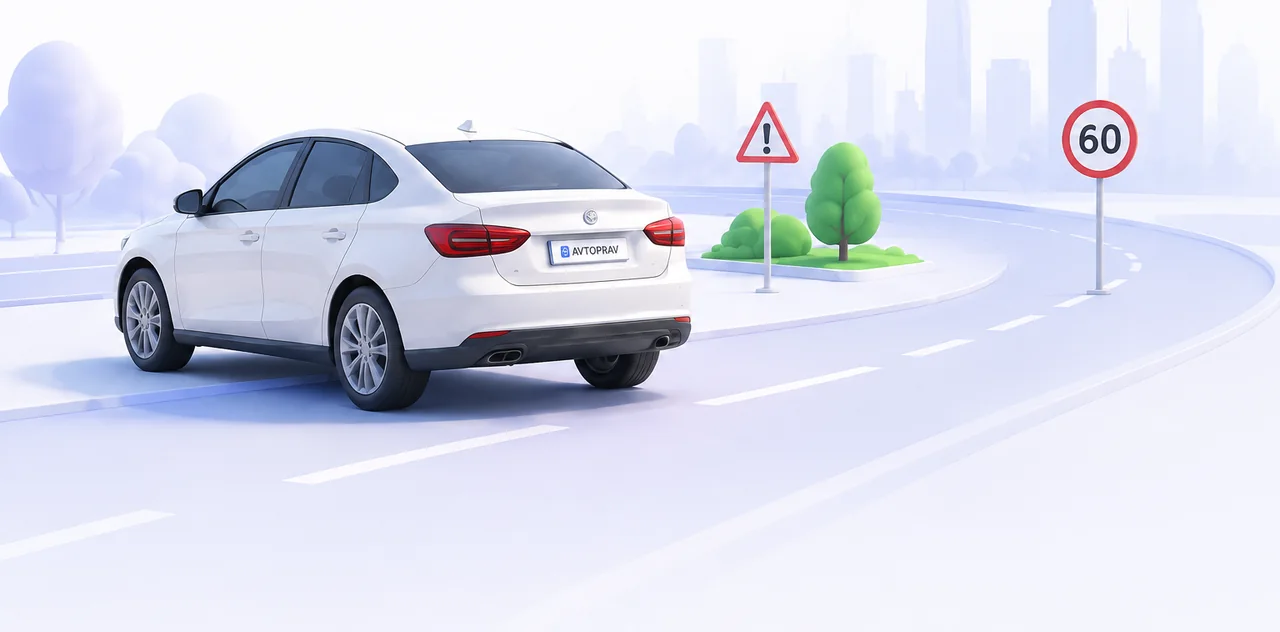
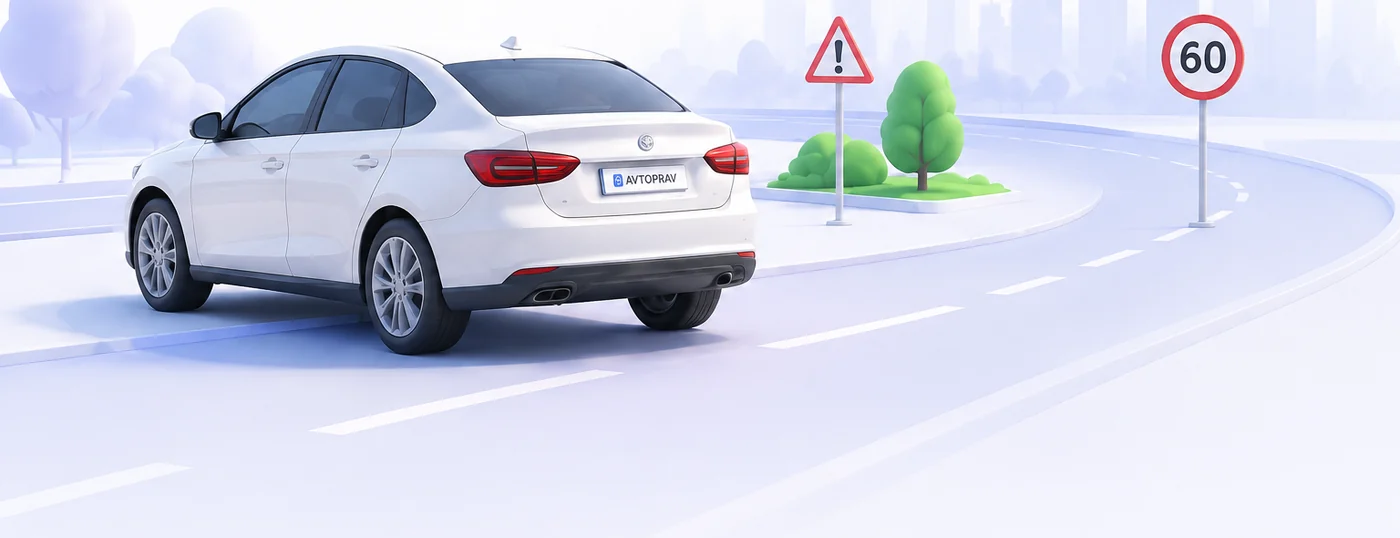
fix(auth): mashina kesilib qolgani + ikki ustun orasidagi chok
MASHINA KESILGAN edi. Sabab: rasm ustun kengligida tabiiy nisbatda 426px
balandlik olardi, CSS esa uni 244px ga qisib `object-position: center bottom`
bilan YUQORIDAN qirqardi — mashinaning ustki yarmi kesilib, faqat shinalar
qolardi.

Yechim ikki qadamda:
  1) Rasm manbadan qayta kesildi. Mashinaning aniq o'rni o'lchandi (piksel
     tahlili: to'q oyna/shina piksellari y 388..764, ya'ni 38–75%), shunga
     ko'ra y 370..960 olindi. Natijada nisbat 2.60 — 863px ustunda tabiiy
     balandligi 332px, ya'ni odatdagi ekranda UMUMAN qirqilmaydi.
  2) `object-position` `center bottom` → `center top`. Past ekranda qirqish
     kerak bo'lsa endi PASTDAGI bo'sh asfalt kesiladi, mashina emas.
`width`/`height` atributlari yangi o'lchamga moslandi (1400x538) — CLS uchun.

CHOK. Chap panel o'z gradientini, o'ng panel `--canvas` ni olardi; ikki rang
tutashgan joyda tik chiziq ko'rinib, sahifa ikkiga bo'lingandek tuyulardi
(qorong'i rejimda ayniqsa keskin). Endi gradient SAHIFA ILDIZIDA
(`.auth-page`) va ikki ustunga bir butun bo'lib yotadi, ustunlarning o'z
foni yo'q — chok tuzilish jihatidan mumkin emas.

Qorong'ida rasm shaffofligi 0.55 → 0.4: rasm yorug' rejim uchun chizilgan,
to'q fonda kamroq ko'zga tashlanishi kerak.

Tekshirildi (production build): yorug' va qorong'i — rasm qirqilmaydi,
ikkala ustun ham shaffof, vertikal scroll yo'q.

diff --git a/app/components/AuthShowcase.vue b/app/components/AuthShowcase.vue
@@ -9,9 +9,11 @@
  * mumkin.
  *
  * Illyustratsiya (public/auth-road.webp) — yuqori qirrasi CSS mask bilan
- * shaffofga o'tadi: rasmning fon rangi (#d8dbea atrofida) panel foniga aynan
- * teng emas, shuning uchun qattiq chok ko'rinib qolardi. Mask bilan qanday
- * fon bo'lsa ham chok bo'lmaydi.
+ * shaffofga o'tadi: rasm foni sahifa fonidan bir oz to'qroq, mask bo'lmasa
+ * gorizontal chok ko'rinib qolardi.
+ *
+ * FON bu komponentda EMAS — u sahifa ildizida (.auth-page) va ikki ustunga
+ * bir butun bo'lib yotadi, aks holda ustunlar orasida tik chok chiqadi.
  */
 const i18n = useI18n()
 
@@ -122,15 +124,17 @@ const features = computed(() => [
     <!-- Yo'l illyustratsiyasi: ustunning butun kengligiga (chetdan chetga)
          cho'ziladi va pastiga tegib turadi. `mt-auto` — matn bilan orasidagi
          bo'shliqni ekran balandligi o'zi taqsimlaydi. -->
-    <img src="/auth-road.webp" alt="" aria-hidden="true" width="1280" height="632"
+    <img src="/auth-road.webp" alt="" aria-hidden="true" width="1400" height="538"
          class="road relative z-0 mt-auto w-full select-none pointer-events-none" />
   </aside>
 </template>
 
 <style scoped>
+/* FON YO'Q — u sahifa ildizida (`.auth-page`) va ikki ustunga BIR BUTUN
+   bo'lib yotadi. Ilgari chap panel o'z gradientini, o'ng panel `--canvas` ni
+   olardi: ikki rang tutashgan joyda tik CHOK ko'rinib, sahifa ikkiga
+   bo'lingandek tuyulardi (qorong'i rejimda ayniqsa keskin). */
 .showcase {
-  /* Maketdagi juda och ko'k-oq fon */
-  background: linear-gradient(168deg, #fbfcff 0%, #f2f5fd 46%, #e9eefb 100%);
   /* Gorizontal padding YO'Q — u `.showcase-pad` da. Rasm chetdan chetga
      cho'zilishi uchun shunday. */
   padding: 32px 0 0;
@@ -141,9 +145,6 @@ const features = computed(() => [
 .showcase-pad { padding: 0 24px; }
 @media (min-width: 1024px) { .showcase-pad { padding: 0 40px; } }
 @media (min-width: 1280px) { .showcase-pad { padding: 0 64px; } }
-.dark .showcase {
-  background: linear-gradient(168deg, var(--surface-soft) 0%, var(--canvas) 100%);
-}
 
 .wordmark {
   font-size: 23px;
@@ -179,31 +180,33 @@ const features = computed(() => [
 @media (min-width: 1024px) { .showcase-title { font-size: 37px; } }
 @media (min-width: 1280px) { .showcase-title { font-size: 43px; } }
 
-/* Rasmning yuqori qirrasi panel foniga silliq o'tadi — rasm foni bilan panel
-   foni aynan bir xil rang emas, mask bo'lmasa gorizontal chok ko'rinardi.
-   Chap/o'ng chetlari ham yumshatiladi (rasm ustundan kengroq ko'rinsin). */
-/* `max-height` + `object-fit: cover` SHART: rasm tabiiy nisbati bo'yicha
-   ustun kengligiga qarab o'sadi (872px kenglikda 430px balandlik) va matn
-   bilan qo'shilib ustunni ekrandan BALAND qilib qo'yardi — sahifa keraksiz
-   vertikal scroll olardi. Endi rasm ekran balandligiga moslashadi, ortiqcha
-   qismi (osmon) yuqoridan qirqiladi. */
+/* Rasmning yuqori qirrasi fonga silliq o'tadi — rasm foni sahifa fonidan
+   bir oz to'qroq, mask bo'lmasa gorizontal chok ko'rinardi. Chap/o'ng
+   chetlari ham yumshatiladi. */
 .road {
   /* `margin-top: auto` — Tailwind'ning `mt-auto` klassi YETMAYDI: scoped CSS
      `.road[data-v-…]` yuqori aniqlikda bo'lgani uchun uni bosib ketadi va rasm
      ustunning pastiga tegmay, ostida bo'shliq qolib ketardi. */
   margin-top: auto;
   height: auto;
-  max-height: min(300px, 26vh);
+  /* Rasm 2.60 nisbatda kesilgan — 863px ustunda tabiiy balandligi 332px,
+     ya'ni odatdagi ekranda QIRQILMAYDI va mashina to'liq ko'rinadi.
+     Past ekranda `cover` ishga tushadi va `center top` tufayli PASTDAGI bo'sh
+     asfalt kesiladi, mashina esa joyida qoladi (ilgari `center bottom` edi —
+     u yuqorini qirqib, mashinaning ustki yarmini kesib tashlardi). */
+  max-height: min(380px, 38vh);
   object-fit: cover;
-  object-position: center bottom;
+  object-position: center top;
   -webkit-mask-image:
-    linear-gradient(to bottom, transparent 0%, #000 26%),
+    linear-gradient(to bottom, transparent 0%, #000 22%),
     linear-gradient(to right, transparent 0%, #000 6%, #000 94%, transparent 100%);
   -webkit-mask-composite: source-in;
   mask-image:
-    linear-gradient(to bottom, transparent 0%, #000 26%),
+    linear-gradient(to bottom, transparent 0%, #000 22%),
     linear-gradient(to right, transparent 0%, #000 6%, #000 94%, transparent 100%);
   mask-composite: intersect;
 }
-.dark .road { opacity: 0.55; }
+/* Rasm yorug' rejim uchun chizilgan — qorong'ida uni butunlay qoraytirib
+   bo'lmaydi, shuning uchun shaffofligi kamaytiriladi va fonga singiydi. */
+.dark .road { opacity: 0.4; }
 </style>

diff --git a/app/pages/login.vue b/app/pages/login.vue
@@ -29,7 +29,7 @@ async function submit() {
 <template>
   <!-- flex-1: layouts/default.vue'dagi <main> `flex-1 flex flex-col` —
        sahifa ildizi ham cho'zilmasa ikki ustun ekran balandligini to'ldirmaydi. -->
-  <div class="flex-1 grid xl:grid-cols-[minmax(0,52fr)_minmax(0,48fr)]">
+  <div class="auth-page flex-1 grid xl:grid-cols-[minmax(0,52fr)_minmax(0,48fr)]">
     <!-- Chap ustun faqat xl (1280) dan boshlab: kichik ekranda karta butun ekranni
          oladi (mobil foydalanuvchi uchun brend bloki emas, forma muhim). -->
     <AuthShowcase class="hidden xl:flex" />
@@ -133,7 +133,16 @@ async function submit() {
 </template>
 
 <style scoped>
-.auth-side { background: var(--canvas); }
+/* FON IKKI USTUNGA BIR BUTUN: ilgari chap panel o'z gradientini, o'ng
+   panel --canvas ni olardi va tutashgan joyda tik CHOK korinardi — sahifa
+   ikkiga bolingandek tuyulardi. Endi gradient sahifa ildizida, ustunlar
+   shaffof. */
+.auth-page {
+  background: linear-gradient(150deg, #fbfcff 0%, #f4f7fd 42%, #eaf0fb 100%);
+}
+.dark .auth-page {
+  background: linear-gradient(150deg, #171b23 0%, #101319 55%, #0b0e15 100%);
+}
 
 .wordmark {
   font-size: 21px;

diff --git a/app/pages/register.vue b/app/pages/register.vue
@@ -51,7 +51,7 @@ async function submit() {
 </script>
 
 <template>
-  <div class="flex-1 grid xl:grid-cols-[minmax(0,52fr)_minmax(0,48fr)]">
+  <div class="auth-page flex-1 grid xl:grid-cols-[minmax(0,52fr)_minmax(0,48fr)]">
     <!-- Mehmon yuksalayotganda chap ustun sarlavhasi ham shu kontekstni aytadi:
          odam nima yo'qotmasligini bilib turishi kerak. -->
     <AuthShowcase
@@ -207,7 +207,16 @@ async function submit() {
    faylga chiqarish mumkin edi, lekin `scoped` uslublar komponentlar orasida
    ulashilmaydi — global CSS'ga chiqarish esa auth sahifalariga tegishli
    klasslarni butun saytga tarqatardi. */
-.auth-side { background: var(--canvas); }
+/* FON IKKI USTUNGA BIR BUTUN: ilgari chap panel o'z gradientini, o'ng
+   panel --canvas ni olardi va tutashgan joyda tik CHOK korinardi — sahifa
+   ikkiga bolingandek tuyulardi. Endi gradient sahifa ildizida, ustunlar
+   shaffof. */
+.auth-page {
+  background: linear-gradient(150deg, #fbfcff 0%, #f4f7fd 42%, #eaf0fb 100%);
+}
+.dark .auth-page {
+  background: linear-gradient(150deg, #171b23 0%, #101319 55%, #0b0e15 100%);
+}
 
 .wordmark {
   font-size: 21px;
